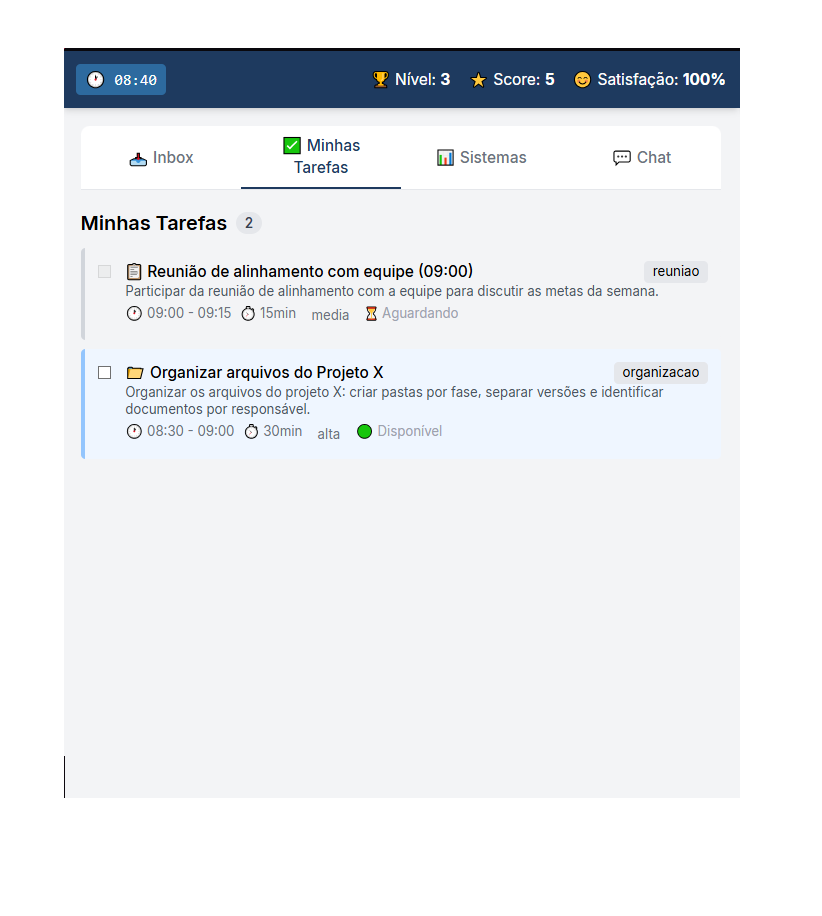
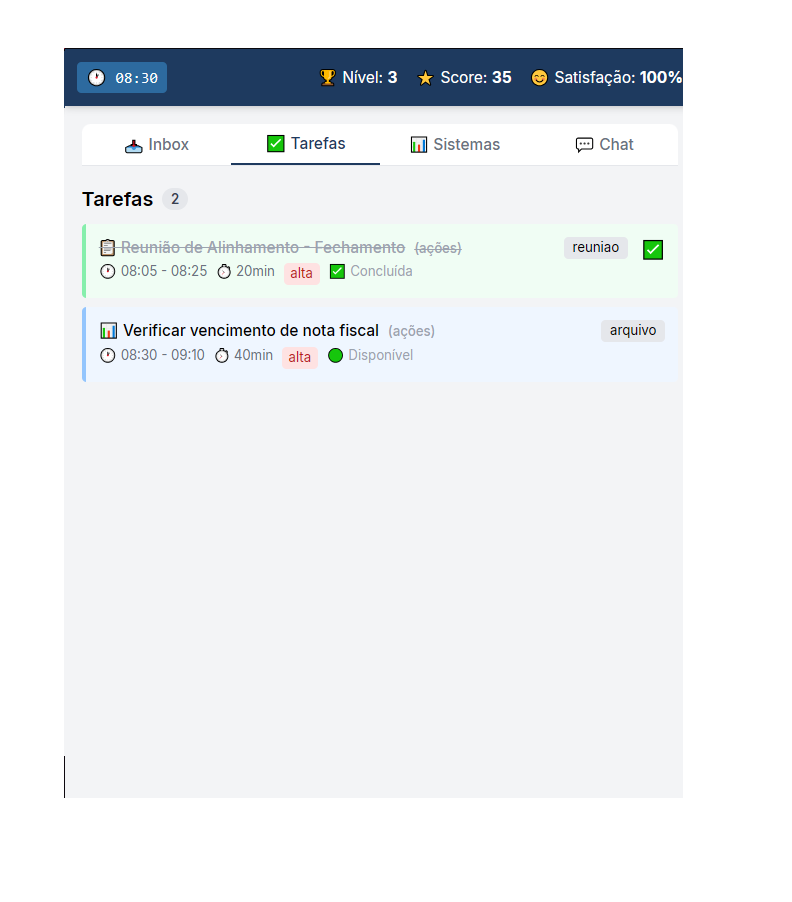
Novos prints

diff --git a/index.html b/index.html
@@ -118,7 +118,7 @@
                 />
                 <!-- Card flutuante de estatística -->
                 <div class="hero__stat-card">
-                    <span class="hero__stat-number">29 mil+</span>
+                    <span class="hero__stat-number">Área que abriu 29 mil+</span>
                     <span class="hero__stat-label">vagas abertas em 3 meses</span>
                 </div>
             </div>
